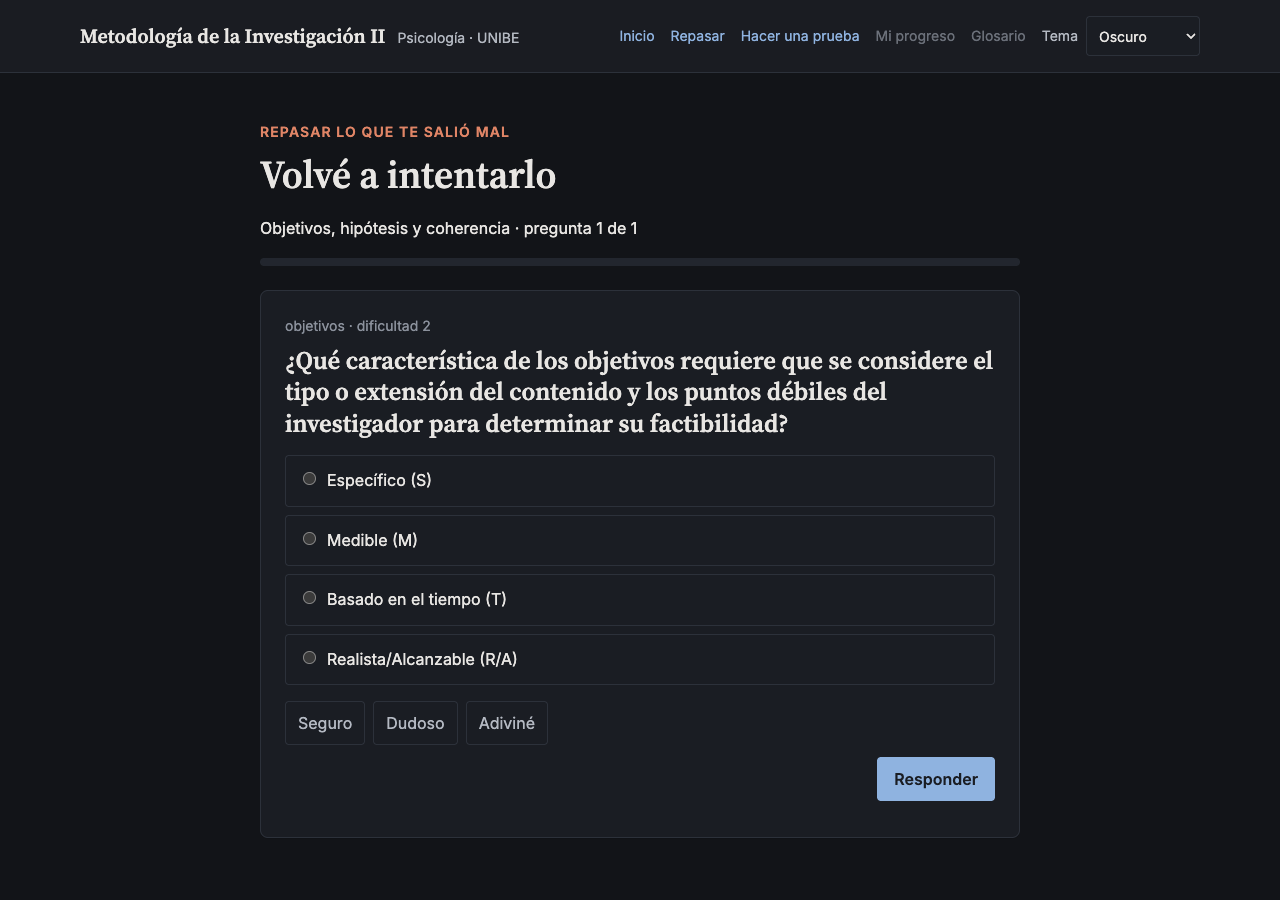
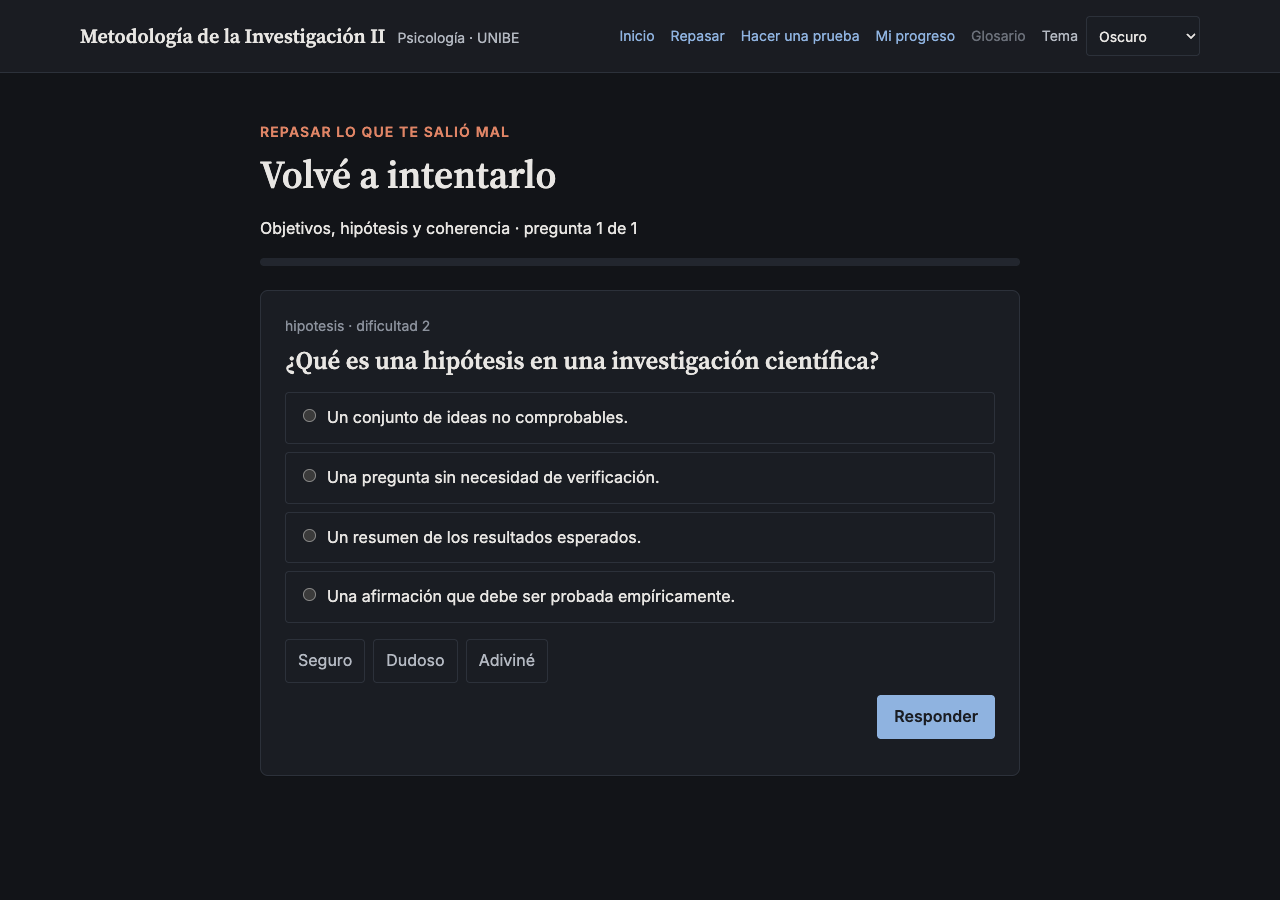
feat(ux): agregar progreso y lenguaje claro

diff --git a/assets/js/modulo-app.js b/assets/js/modulo-app.js
@@ -96,7 +96,7 @@ function renderStepHeader(eyebrow, title, description) {
 function renderUbicacion() {
   const outcomes = (state.module.resultados ?? []).map((result) => `<li>${inlineMarkdown(result)}</li>`).join("");
   const questions = (state.module.preguntas_orientadoras ?? []).map((question) => `<li>${inlineMarkdown(question)}</li>`).join("");
-  return `<section class="module-step is-active">${renderStepHeader("Paso 1 · Ubicación", "Dónde estás en el proyecto", "La cadena ordena el proyecto sin convertirlo en una secuencia rígida.")}
+  return `<section class="module-step is-active">${renderStepHeader("Paso 1 · Ubicá tu proyecto", "Dónde estás en el proyecto", "La cadena ordena el proyecto sin convertirlo en una secuencia rígida.")}
     <div class="card stack"><div>${renderCoherenceChain()}</div><div><h3>Resultados de aprendizaje</h3><ul>${outcomes || "<li>Los resultados se cargarán con el contenido validado del módulo.</li>"}</ul></div>${questions ? `<div><h3>Preguntas orientadoras</h3><ul>${questions}</ul></div>` : ""}</div>
   </section>`;
 }
@@ -130,13 +130,13 @@ function renderCapsuleBlock(block, index) {
 
 function renderStudy() {
   const blocks = state.content.capsula?.blocks ?? [];
-  return `<section class="module-step is-active">${renderStepHeader("Paso 3 · Estudio", "Lectura, cápsula y herramientas", "Estudiá la síntesis y usá las herramientas cuando el diseño de tu estudio lo requiera.")}
+  return `<section class="module-step is-active">${renderStepHeader("Paso 3 · Estudiá", "Lectura, cápsula y herramientas", "Estudiá la síntesis y usá las herramientas cuando el diseño de tu estudio lo requiera.")}
     <div class="module-layout"><div class="capsule">${renderResources()}${blocks.map(renderCapsuleBlock).join("")}</div><aside class="module-sidebar card"><h3>Antes de seguir</h3><p class="muted">Intentá explicar el concepto con tus palabras y anotá qué supuesto todavía necesitás revisar.</p></aside></div>
   </section>`;
 }
 
 function renderConcepts() {
-  return `<section class="module-step is-active">${renderStepHeader("Paso 4 · Conceptos clave", "Recuperación activa", "Mostrá la respuesta después de intentar definir cada concepto.")}
+  return `<section class="module-step is-active">${renderStepHeader("Paso 4 · Repasá conceptos", "Recuperación activa", "Mostrá la respuesta después de intentar definir cada concepto.")}
     <div class="capsule__cards">${state.cards.map((card) => `<details class="capsule__card"><summary>${inlineMarkdown(card.frente ?? card.front ?? "Concepto")}</summary><p>${inlineMarkdown(card.dorso ?? card.back ?? "")}</p><p class="card__meta">${escapeHtml(card.tag ?? "")}</p></details>`).join("")}</div>
   </section>`;
 }
@@ -176,7 +176,7 @@ function renderDomainResult(domain) {
   const review = domain.subtemasRevisar?.length
     ? `<p><strong>Subtemas para repasar:</strong> ${domain.subtemasRevisar.map((item) => escapeHtml(item)).join(", ")}</p>`
     : "";
-  const title = domain.dominated ? "Módulo dominado" : "Todavía no alcanza el dominio";
+  const title = domain.dominated ? "Ya dominás este módulo" : "Todavía falta practicar";
   const detail = domain.dominated
     ? "Superaste el umbral del 80 %."
     : "Hacé una nueva práctica y volvé a intentar la verificación.";
@@ -191,29 +191,29 @@ function renderPractice() {
     : session.primaryServed >= session.targetCount
       ? `Sesión completa: ${session.answers.length} respuestas, con errores reaparecidos al final.`
     : `Ítem ${session.primaryServed + 1} de ${session.targetCount} · dificultad objetivo ${session.currentDifficulty}.`;
-  return `<section class="module-step is-active">${renderStepHeader("Paso 6 · Práctica adaptativa", "Practicá con feedback inmediato", "La dificultad sube después de dos aciertos seguidos, baja después de un error y los errores reaparecen al final de la sesión.")}${renderQuestionList(current, "adaptativa", progress, { withConfidence: true })}</section>`;
+  return `<section class="module-step is-active">${renderStepHeader("Paso 6 · Practicá", "Practicá con feedback inmediato", "La dificultad sube después de dos aciertos seguidos, baja después de un error y los errores reaparecen al final de la sesión.")}${renderQuestionList(current, "adaptativa", progress, { withConfidence: true })}</section>`;
 }
 
 function renderVerification() {
   const session = state.sessions.verificacion ?? (state.sessions.verificacion = createSession(state.items, { mode: "verificacion" }));
   const previous = state.store.modules?.[moduleId]?.domain;
-  return `<section class="module-step is-active">${renderStepHeader("Paso 7 · Verificación de dominio", "Comprobá tu dominio", "El módulo se considera dominado con 80 % o más en esta verificación de 10 ítems.")}${previous ? renderDomainResult(previous) : ""}${renderQuestionList(session.items, "verificacion", "3 ítems de dificultad 1, 4 de dificultad 2 y 3 de dificultad 3", { withConfidence: true })}<div class="verification-actions"><button class="button button--primary" type="button" data-verification-submit>Calificar verificación</button><div data-verification-result aria-live="polite"></div></div></section>`;
+  return `<section class="module-step is-active">${renderStepHeader("Paso 7 · Verificá lo aprendido", "Comprobá lo que aprendiste", "Si llegás a 80 % o más, este módulo queda registrado como dominado.")}${previous ? renderDomainResult(previous) : ""}${renderQuestionList(session.items, "verificacion", "3 ítems de dificultad 1, 4 de dificultad 2 y 3 de dificultad 3", { withConfidence: true })}<div class="verification-actions"><button class="button button--primary" type="button" data-verification-submit>Ver mi resultado</button><div data-verification-result aria-live="polite"></div></div></section>`;
 }
 
 function renderDiagnosis() {
   const items = approvedItems(state.items).filter((item) => Number(item.dificultad) <= 2).slice(0, 3);
-  return `<section class="module-step is-active">${renderStepHeader("Paso 2 · Diagnóstico", "Activá lo que ya sabés", "No tiene nota. Usá los errores para decidir a qué prestar atención durante el estudio.")}${renderQuestionList(items, "diagnostico", "Tres preguntas iniciales, sin puntaje")}</section>`;
+  return `<section class="module-step is-active">${renderStepHeader("Paso 2 · Qué ya sabés", "Activá lo que ya sabés", "No tiene nota. Usá los errores para decidir a qué prestar atención durante el estudio.")}${renderQuestionList(items, "diagnostico", "Tres preguntas iniciales, sin puntaje")}</section>`;
 }
 
 function renderAudit() {
   const checks = state.content.autoauditoria ?? state.module.autoauditoria ?? [];
-  if (!checks.length) return `<section class="module-step is-active">${renderStepHeader("Paso 8 · Autoauditoría", "Aplicalo a tu proyecto", "Esta versión del módulo todavía no trae una lista de cotejo específica.")}<div class="empty-note">La autoauditoría queda reservada para contenido validado por la cátedra.</div></section>`;
-  return `<section class="module-step is-active">${renderStepHeader("Paso 8 · Autoauditoría", "Aplicalo a tu proyecto", "Marcá cada criterio cuando puedas responderlo con evidencia de tu propio proyecto.")}<ul class="audit-list">${checks.map((check, index) => `<li><label><input type="checkbox" data-audit-index="${index}" ${state.store.autoauditorias?.[moduleId]?.[index] ? "checked" : ""}><span>${inlineMarkdown(check)}</span></label></li>`).join("")}</ul></section>`;
+  if (!checks.length) return `<section class="module-step is-active">${renderStepHeader("Paso 8 · Aplicalo a tu proyecto", "Aplicalo a tu proyecto", "Esta versión del módulo todavía no trae una lista de cotejo específica.")}<div class="empty-note">La autoauditoría queda reservada para contenido validado por la cátedra.</div></section>`;
+  return `<section class="module-step is-active">${renderStepHeader("Paso 8 · Aplicalo a tu proyecto", "Aplicalo a tu proyecto", "Marcá cada criterio cuando puedas responderlo con evidencia de tu propio proyecto.")}<ul class="audit-list">${checks.map((check, index) => `<li><label><input type="checkbox" data-audit-index="${index}" ${state.store.autoauditorias?.[moduleId]?.[index] ? "checked" : ""}><span>${inlineMarkdown(check)}</span></label></li>`).join("")}</ul></section>`;
 }
 
 function renderClosing() {
   const current = state.store.puntosTurbios?.find((item) => item.moduleId === moduleId)?.text ?? "";
-  return `<section class="module-step is-active">${renderStepHeader("Paso 9 · Cierre", "El punto más turbio", "Escribí una línea sobre lo que quedó menos claro. Guardalo para orientar tu próximo repaso.")}<form class="closing-form"><label for="muddy-point">¿Qué te falta distinguir?</label><textarea id="muddy-point" name="muddy-point">${escapeHtml(current)}</textarea><button class="button button--primary" type="submit">Guardar cierre</button><p class="step-status" id="closing-status" aria-live="polite"></p></form></section>`;
+  return `<section class="module-step is-active">${renderStepHeader("Paso 9 · Cerrá la sesión", "El punto más turbio", "Escribí una línea sobre lo que quedó menos claro. Guardalo para orientar tu próximo repaso.")}<form class="closing-form"><label for="muddy-point">¿Qué te falta distinguir?</label><textarea id="muddy-point" name="muddy-point">${escapeHtml(current)}</textarea><button class="button button--primary" type="submit">Guardar cierre</button><p class="step-status" id="closing-status" aria-live="polite"></p></form></section>`;
 }
 
 function renderCurrentStep() {

diff --git a/assets/js/progress-app.js b/assets/js/progress-app.js
@@ -1,0 +1,81 @@
+import { escapeHtml, MODULE_STEPS } from "./engine.js";
+import { getReviewQueue, loadStore, saveStore } from "./store.js";
+
+const contentEl = document.querySelector("#progress-content");
+const themeSelect = document.querySelector("#theme-select");
+const state = { store: loadStore(), modules: [] };
+
+function setTheme(theme) {
+  document.documentElement.dataset.theme = theme;
+  if (themeSelect) themeSelect.value = theme;
+  state.store.theme = theme;
+  saveStore(state.store);
+}
+
+function formatDate(value) {
+  if (!value) return "";
+  const date = new Date(value);
+  return Number.isNaN(date.getTime()) ? String(value) : new Intl.DateTimeFormat("es-PY", { dateStyle: "medium" }).format(date);
+}
+
+function stepLabel(stepId) {
+  return MODULE_STEPS.find((step) => step.id === stepId)?.label ?? "el módulo";
+}
+
+function moduleStatus(module, moduleState) {
+  const domain = moduleState?.domain;
+  if (domain?.dominated) {
+    return {
+      badge: "Módulo dominado",
+      className: "badge--ok",
+      detail: `Puntaje ${domain.score}% · ${formatDate(domain.fecha)}`,
+      action: `<a class="button button--quiet" href="modulo.html?m=${encodeURIComponent(module.id)}&step=verificacion">Ver resultado</a>`,
+    };
+  }
+  if (moduleState?.lastActivity?.stepId) {
+    return {
+      badge: "En progreso",
+      className: "badge--accent",
+      detail: `Quedaste en ${stepLabel(moduleState.lastActivity.stepId).toLowerCase()}${moduleState.lastActivity.updatedAt ? ` · ${formatDate(moduleState.lastActivity.updatedAt)}` : ""}`,
+      action: `<a class="button button--primary" href="modulo.html?m=${encodeURIComponent(module.id)}&step=${encodeURIComponent(moduleState.lastActivity.stepId)}">Continuar</a>`,
+    };
+  }
+  return {
+    badge: "Todavía no empezado",
+    className: "",
+    detail: "Podés empezar por la ubicación del proyecto.",
+    action: `<a class="button button--secondary" href="modulo.html?m=${encodeURIComponent(module.id)}">Empezar</a>`,
+  };
+}
+
+function render() {
+  const reviewCount = getReviewQueue(state.store).length;
+  const dominated = state.modules.filter((module) => state.store.modules?.[module.id]?.domain?.dominated).length;
+  const started = state.modules.filter((module) => state.store.modules?.[module.id]?.lastActivity).length;
+  const latest = state.modules
+    .map((module) => ({ module, activity: state.store.modules?.[module.id]?.lastActivity }))
+    .filter(({ activity }) => activity?.updatedAt)
+    .sort((a, b) => new Date(b.activity.updatedAt) - new Date(a.activity.updatedAt))[0];
+  const continueLink = latest
+    ? `modulo.html?m=${encodeURIComponent(latest.module.id)}&step=${encodeURIComponent(latest.activity.stepId)}`
+    : "modulo.html?m=m01";
+  const modules = state.modules.map((module) => {
+    const status = moduleStatus(module, state.store.modules?.[module.id]);
+    const domain = state.store.modules?.[module.id]?.domain;
+    const review = domain?.subtemasRevisar?.length ? `<p class="progress-card__review"><strong>Para repasar:</strong> ${domain.subtemasRevisar.map((item) => escapeHtml(item)).join(", ")}</p>` : "";
+    return `<article class="progress-card" data-progress-module="${escapeHtml(module.id)}"><div class="progress-card__top"><span class="badge">Módulo ${escapeHtml(module.number)}</span><span class="badge ${status.className}">${status.badge}</span></div><h2>${escapeHtml(module.title)}</h2><p class="muted">${escapeHtml(status.detail)}</p>${review}<div class="progress-card__action">${status.action}</div></article>`;
+  }).join("");
+  contentEl.innerHTML = `<section class="progress-page"><div class="progress-page__header"><p class="eyebrow">Mi progreso</p><h1>Sabé qué hiciste y qué sigue</h1><p>Este resumen se guarda en este dispositivo. No necesitás crear una cuenta.</p></div><div class="progress-summary"><article class="card"><span class="card__meta">Módulos dominados</span><strong>${dominated} de ${state.modules.length}</strong></article><article class="card"><span class="card__meta">Módulos empezados</span><strong>${started} de ${state.modules.length}</strong></article><article class="card"><span class="card__meta">Para repasar hoy</span><strong>${reviewCount}</strong></article></div><section class="progress-next card card--accent"><div><p class="eyebrow">Siguiente paso</p><h2>Seguí desde donde quedaste</h2><p class="muted">${latest ? `Módulo ${escapeHtml(latest.module.number)} · ${escapeHtml(stepLabel(latest.activity.stepId).toLowerCase())}` : "Todavía no registramos una actividad."}</p></div><div class="cluster"><a class="button button--primary" href="${continueLink}">Continuar</a>${reviewCount ? `<a class="button button--secondary" id="progress-review-link" href="repaso.html">Repasar ${reviewCount} ítems</a>` : ""}</div></section><section aria-labelledby="progress-modules-heading"><div class="progress-section-heading"><div><p class="eyebrow">Tus módulos</p><h2 id="progress-modules-heading">Un paso a la vez</h2></div><a class="button button--quiet" href="index.html">Volver al inicio</a></div><div class="progress-grid">${modules}</div></section><p class="progress-note">Si cambiás de navegador o dispositivo, este avance no se traslada automáticamente. Podés volver a este equipo para continuar.</p></section>`;
+}
+
+async function load() {
+  setTheme(state.store.theme ?? "auto");
+  themeSelect?.addEventListener("change", () => setTheme(themeSelect.value));
+  const response = await fetch("data/modulos.json");
+  state.modules = await response.json();
+  render();
+}
+
+load().catch((error) => {
+  contentEl.innerHTML = `<div class="empty-note">No se pudo cargar tu progreso: ${escapeHtml(error.message)}</div>`;
+});

diff --git a/index.html b/index.html
@@ -69,16 +69,17 @@
               <svg width="18" height="18" viewBox="0 0 24 24" fill="none" stroke="currentColor" stroke-width="1.8" stroke-linecap="round" stroke-linejoin="round" aria-hidden="true"><path d="M3 12a9 9 0 1 0 3-6.7L3 8"/><path d="M3 3v5h5"/><path d="M12 7v5l3 2"/></svg>
               Repaso de hoy · <span class="n" id="hero-review-count">0 ítems</span>
             </a>
+            <a class="btn btn-ghost" href="progreso.html">Ver mi progreso</a>
           </div>
         </div>
 
         <aside class="week" aria-label="Esta semana" id="hero-week-card">
           <h3>Esta semana</h3>
-          <p class="when" id="hero-week-when">Clase 11 · <span>miércoles 14/10</span></p>
+          <p class="when" id="hero-week-when">Ruta de estudio · <span>cuando vuelvas</span></p>
           <ul id="hero-week-list">
-            <li><svg width="18" height="18" viewBox="0 0 24 24" fill="none" stroke="currentColor" stroke-width="1.8" stroke-linecap="round" stroke-linejoin="round" aria-hidden="true"><path d="M4 19.5A2.5 2.5 0 0 1 6.5 17H20V3H6.5A2.5 2.5 0 0 0 4 5.5z"/></svg><span><b>Antes:</b> lectura de técnicas, instrumentos y ética, y la matriz objetivo–dato–fuente.</span></li>
-            <li><svg width="18" height="18" viewBox="0 0 24 24" fill="none" stroke="currentColor" stroke-width="1.8" stroke-linecap="round" stroke-linejoin="round" aria-hidden="true"><path d="M9 11l3 3 8-8"/><path d="M20 12v7a2 2 0 0 1-2 2H6a2 2 0 0 1-2-2V5a2 2 0 0 1 2-2h11"/></svg><span><b>Después:</b> verificación de dominio del módulo 9.</span></li>
-            <li><svg width="18" height="18" viewBox="0 0 24 24" fill="none" stroke="currentColor" stroke-width="1.8" stroke-linecap="round" stroke-linejoin="round" aria-hidden="true"><path d="M14 2H6a2 2 0 0 0-2 2v16a2 2 0 0 0 2 2h12a2 2 0 0 0 2-2V8z"/><path d="M14 2v6h6"/></svg><span><b>Entrega en Moodle:</b> matriz e instrumento bosquejado, hasta el martes 20/10, 23:59.</span></li>
+            <li><svg width="18" height="18" viewBox="0 0 24 24" fill="none" stroke="currentColor" stroke-width="1.8" stroke-linecap="round" stroke-linejoin="round" aria-hidden="true"><path d="M4 19.5A2.5 2.5 0 0 1 6.5 17H20V3H6.5A2.5 2.5 0 0 0 4 5.5z"/></svg><span><b>Antes:</b> elegí un módulo y revisá su cápsula de estudio.</span></li>
+            <li><svg width="18" height="18" viewBox="0 0 24 24" fill="none" stroke="currentColor" stroke-width="1.8" stroke-linecap="round" stroke-linejoin="round" aria-hidden="true"><path d="M9 11l3 3 8-8"/><path d="M20 12v7a2 2 0 0 1-2 2H6a2 2 0 0 1-2-2V5a2 2 0 0 1 2-2h11"/></svg><span><b>Después:</b> respondé unas preguntas y mirá qué conviene repasar.</span></li>
+            <li><svg width="18" height="18" viewBox="0 0 24 24" fill="none" stroke="currentColor" stroke-width="1.8" stroke-linecap="round" stroke-linejoin="round" aria-hidden="true"><path d="M14 2H6a2 2 0 0 0-2 2v16a2 2 0 0 0 2 2h12a2 2 0 0 0 2-2V8z"/><path d="M14 2v6h6"/></svg><span><b>Entrega:</b> consultá en Moodle las fechas que indique la cátedra.</span></li>
           </ul>
         </aside>
       </div>
@@ -117,7 +118,7 @@
         <div class="dashboard-top">
           <div class="dashboard-title-group">
             <h2 id="dashboard-heading">Tu Panel de Avance Metodológico</h2>
-            <p id="dashboard-subtitle">Aprueba cada autoevaluación con 70% o más para desbloquear el siguiente módulo, o activa el Modo Repaso Libre para explorar sin restricciones.</p>
+            <p id="dashboard-subtitle">Superá cada verificación con 80% o más para registrar el módulo como dominado, o activá el Modo Repaso Libre para explorar sin restricciones.</p>
           </div>
           <div class="dashboard-actions">
             <button type="button" id="unlock-all-btn" class="btn btn-outline" title="Alternar acceso libre a todos los módulos">
@@ -138,7 +139,7 @@
           <div class="stat-card">
             <span class="stat-label">Promedio en Autoevaluación</span>
             <span class="stat-value" id="stat-avg-score">—</span>
-            <span class="stat-meta">Umbral de aprobación: 70%</span>
+            <span class="stat-meta">Umbral de dominio: 80%</span>
           </div>
           <div class="stat-card">
             <span class="stat-label">Tarjetas 3D Exploradas</span>

diff --git a/assets/js/app.js b/assets/js/app.js
@@ -11,7 +11,7 @@ import { createDefaultStore, getReviewQueue, loadStore, saveStore } from "./stor
 
   const TOTAL_MODULES = 11;
   const TOTAL_FLIPCARDS_COURSE = 115;
-  const PASS_THRESHOLD = 70;
+  const PASS_THRESHOLD = 80;
 
   const STAGE_MAP = {
     m01: { stage: 1, name: 'Etapa 1 · Fundamentos y Literatura' },
@@ -234,7 +234,8 @@ import { createDefaultStore, getReviewQueue, loadStore, saveStore } from "./stor
       const EXAMEN_EVENT = {
         tipo: 'examen',
         nombre: 'Examen parcial',
-        fecha: '2026-10-13',
+        // La fecha del examen queda abierta hasta la decisión docente; no mostrar una fecha vencida.
+        fecha: null,
         modulos: ['m01', 'm02', 'm03', 'm04', 'm05', 'm06', 'm07', 'm08'],
         duracion_min: 60
       };
@@ -245,10 +246,10 @@ import { createDefaultStore, getReviewQueue, loadStore, saveStore } from "./stor
       const d = String(now.getDate()).padStart(2, '0');
       const todayStr = y + '-' + m + '-' + d;
 
-      const examDate = new Date(EXAMEN_EVENT.fecha + 'T00:00:00');
+      const examDate = EXAMEN_EVENT.fecha ? new Date(EXAMEN_EVENT.fecha + 'T00:00:00') : null;
       const nowDateOnly = new Date(todayStr + 'T00:00:00');
-      const diffDays = Math.round((examDate.getTime() - nowDateOnly.getTime()) / (1000 * 60 * 60 * 24));
-      const examActive = diffDays >= 0 && diffDays <= 7;
+      const diffDays = examDate ? Math.round((examDate.getTime() - nowDateOnly.getTime()) / (1000 * 60 * 60 * 24)) : null;
+      const examActive = Number.isFinite(diffDays) && diffDays >= 0 && diffDays <= 7;
 
       const continueBtn = document.getElementById('hero-continue-btn');
       const continueNum = document.getElementById('hero-continue-num');
@@ -1536,8 +1537,8 @@ import { createDefaultStore, getReviewQueue, loadStore, saveStore } from "./stor
             '</h3>' +
             '<p style="margin-top:0.4rem;">' +
               (passed
-                ? 'Has superado el umbral del 70%. Este módulo ha quedado registrado como aprobado y el siguiente módulo se encuentra desbloqueado.'
-                : 'Se requiere al menos 70% para aprobar el módulo. Revisa la retroalimentación formativa detallada en cada ítem arriba y vuelve a intentarlo.') +
+                ? 'Has superado el umbral del 80%. Este módulo ha quedado registrado como aprobado y el siguiente módulo se encuentra desbloqueado.'
+                : 'Se requiere al menos 80% para aprobar el módulo. Revisa la retroalimentación formativa detallada en cada ítem arriba y vuelve a intentarlo.') +
             '</p>' +
             '<div style="margin-top:1rem; display:flex; gap:0.75rem; flex-wrap:wrap;">' +
               '<button type="button" id="banner-retry-btn" class="btn btn-outline">🔀 Intentar con nuevas preguntas</button>' +

diff --git a/progreso.html b/progreso.html
@@ -1,0 +1,56 @@
+<!doctype html>
+<html lang="es" data-theme="light">
+<head>
+  <meta charset="utf-8">
+  <meta name="viewport" content="width=device-width, initial-scale=1">
+  <meta name="color-scheme" content="light dark">
+  <script>
+    (function () {
+      try {
+        var stored = localStorage.getItem("meto2.v2");
+        var saved = stored ? JSON.parse(stored).theme : null;
+        var prefersDark = window.matchMedia && window.matchMedia("(prefers-color-scheme: dark)").matches;
+        document.documentElement.dataset.theme = saved && saved !== "auto" ? saved : (prefersDark ? "dark" : "light");
+      } catch (error) {}
+    }());
+  </script>
+  <title>Mi progreso — Metodología de la Investigación II</title>
+  <link rel="preconnect" href="https://fonts.googleapis.com">
+  <link rel="preconnect" href="https://fonts.gstatic.com" crossorigin>
+  <link href="https://fonts.googleapis.com/css2?family=Inter:wght@400;500;600&family=Source+Serif+4:opsz,wght@8..60,500;8..60,600&display=swap" rel="stylesheet">
+  <link rel="stylesheet" href="assets/css/base.css">
+  <link rel="stylesheet" href="assets/css/components.css">
+  <link rel="stylesheet" href="assets/css/module-v3.css">
+</head>
+<body class="module-v3">
+  <a class="skip-link" href="#progress-content">Ir al contenido</a>
+  <div class="site-shell">
+    <header class="site-header">
+      <div class="container site-header__inner">
+        <a class="brand" href="index.html" aria-label="Volver al inicio">
+          <span class="brand__title">Metodología de la Investigación II</span>
+          <span class="brand__meta">Psicología · UNIBE</span>
+        </a>
+        <nav class="site-nav" aria-label="Navegación principal">
+          <a href="index.html">Inicio</a>
+          <a href="repaso.html">Repasar</a>
+          <a href="examen.html">Hacer una prueba</a>
+          <a href="progreso.html" aria-current="page">Mi progreso</a>
+          <a class="is-reserved" href="#" aria-disabled="true">Glosario</a>
+          <label class="theme-control" for="theme-select">Tema
+            <select id="theme-select" aria-label="Tema de color">
+              <option value="light">Claro</option>
+              <option value="dark">Oscuro</option>
+              <option value="auto">Automático</option>
+            </select>
+          </label>
+        </nav>
+      </div>
+    </header>
+    <main id="progress-content" class="container progress-main">
+      <div class="step-status" role="status" aria-live="polite">Cargando tu progreso…</div>
+    </main>
+  </div>
+  <script type="module" src="assets/js/progress-app.js"></script>
+</body>
+</html>

diff --git a/assets/css/module-v3.css b/assets/css/module-v3.css
@@ -68,6 +68,23 @@
 .review-page__header p:last-child { margin-bottom: 0; }
 .review-progress { height: 8px; overflow: hidden; margin-top: var(--s-4); border-radius: 999px; background: var(--surface-2); }
 .review-progress span { display: block; width: var(--progress, 0%); height: 100%; background: var(--accent); transition: width var(--dur) ease; }
+.progress-main { max-width: 1120px; }
+.progress-page__header { max-width: 72ch; margin-bottom: var(--s-5); }
+.progress-page__header p:last-child { margin-bottom: 0; }
+.progress-summary { display: grid; grid-template-columns: repeat(3, 1fr); gap: var(--s-3); margin-bottom: var(--s-5); }
+.progress-summary strong { display: block; margin-top: var(--s-2); font-family: var(--font-serif); font-size: var(--fs-5); }
+.progress-next { display: flex; align-items: center; justify-content: space-between; gap: var(--s-5); margin-bottom: var(--s-7); }
+.progress-next h2 { margin-bottom: var(--s-2); }
+.progress-next p:last-child { margin-bottom: 0; }
+.progress-section-heading { display: flex; align-items: end; justify-content: space-between; gap: var(--s-4); margin-bottom: var(--s-4); }
+.progress-section-heading h2 { margin-bottom: 0; }
+.progress-grid { display: grid; grid-template-columns: repeat(2, minmax(0, 1fr)); gap: var(--s-4); }
+.progress-card { display: flex; min-width: 0; flex-direction: column; padding: var(--s-4); border: 1px solid var(--line); border-radius: var(--radius); background: var(--surface); box-shadow: var(--shadow); }
+.progress-card__top { display: flex; flex-wrap: wrap; gap: var(--s-2); margin-bottom: var(--s-3); }
+.progress-card h2 { margin-bottom: var(--s-2); font-size: var(--fs-3); }
+.progress-card__review { margin-top: var(--s-3); padding: var(--s-3); border-left: 3px solid var(--warn); background: var(--warn-soft); font-size: var(--fs-1); }
+.progress-card__action { display: flex; justify-content: flex-end; margin-top: auto; padding-top: var(--s-4); }
+.progress-note { margin-top: var(--s-5); color: var(--ink-3); font-size: var(--fs-1); }
 
 .case { padding: var(--s-4); border: 1px solid var(--line); border-radius: var(--radius); background: var(--surface); }
 .case summary, .gallery-card summary { cursor: pointer; font-weight: 600; }
@@ -87,4 +104,6 @@
   .module-sidebar { position: static; }
   .module-v3__main { padding-top: var(--s-4); }
   .question { padding: var(--s-4); }
+  .progress-summary, .progress-grid { grid-template-columns: 1fr; }
+  .progress-next, .progress-section-heading { align-items: flex-start; flex-direction: column; }
 }

diff --git a/assets/js/engine.js b/assets/js/engine.js
@@ -11,15 +11,15 @@ export const COHERENCE_CHAIN = [
 ];
 
 export const MODULE_STEPS = [
-  { id: "ubicacion", label: "Ubicación" },
-  { id: "diagnostico", label: "Diagnóstico" },
-  { id: "estudio", label: "Estudio" },
-  { id: "conceptos", label: "Conceptos" },
+  { id: "ubicacion", label: "Ubicá tu proyecto" },
+  { id: "diagnostico", label: "Qué ya sabés" },
+  { id: "estudio", label: "Estudiá" },
+  { id: "conceptos", label: "Repasá conceptos" },
   { id: "guiada", label: "Práctica guiada" },
-  { id: "adaptativa", label: "Práctica adaptativa" },
-  { id: "verificacion", label: "Dominio" },
-  { id: "auditoria", label: "Autoauditoría" },
-  { id: "cierre", label: "Cierre" },
+  { id: "adaptativa", label: "Practicá" },
+  { id: "verificacion", label: "Verificá lo aprendido" },
+  { id: "auditoria", label: "Aplicalo a tu proyecto" },
+  { id: "cierre", label: "Cerrá la sesión" },
 ];
 
 export function escapeHtml(value) {

diff --git a/examen.html b/examen.html
@@ -72,7 +72,7 @@
       <div class="exam-chips-grid">
         <span class="exam-chip accent">
           <svg width="15" height="15" viewBox="0 0 24 24" fill="none" stroke="currentColor" stroke-width="2" stroke-linecap="round" stroke-linejoin="round" aria-hidden="true"><rect x="3" y="4" width="18" height="18" rx="2" ry="2"></rect><line x1="16" y1="2" x2="16" y2="6"></line><line x1="8" y1="2" x2="8" y2="6"></line><line x1="3" y1="10" x2="21" y2="10"></line></svg>
-          <b>Fecha:</b> Hoy, 13 de octubre
+          <b>Fecha:</b> Según el cronograma de la cátedra
         </span>
         <span class="exam-chip">
           <svg width="15" height="15" viewBox="0 0 24 24" fill="none" stroke="currentColor" stroke-width="2" stroke-linecap="round" stroke-linejoin="round" aria-hidden="true"><circle cx="12" cy="12" r="10"></circle><polyline points="12 6 12 12 16 14"></polyline></svg>

diff --git a/modules/view.html b/modules/view.html
@@ -198,7 +198,7 @@
         <div>
           <span class="section-eyebrow">Paso 5 · Verificación de Dominio</span>
           <h2 id="heading-quiz">Autoevaluación Formativa con Retroalimentación</h2>
-          <p class="section-subtitle">Responde las preguntas seleccionadas al azar del banco validado. Obtén al menos 70% de aciertos para aprobar el módulo y desbloquear el siguiente.</p>
+          <p class="section-subtitle">Responde las preguntas seleccionadas al azar del banco validado. Obtené al menos 80% de aciertos para registrar el módulo como dominado.</p>
         </div>
       </div>
 

diff --git a/repaso.html b/repaso.html
@@ -35,7 +35,7 @@
           <a href="index.html">Inicio</a>
           <a href="repaso.html" aria-current="page">Repasar</a>
           <a href="examen.html">Hacer una prueba</a>
-          <a class="is-reserved" href="#" aria-disabled="true">Mi progreso</a>
+          <a href="progreso.html">Mi progreso</a>
           <a class="is-reserved" href="#" aria-disabled="true">Glosario</a>
           <label class="theme-control" for="theme-select">Tema
             <select id="theme-select" aria-label="Tema de color">

diff --git a/modulo.html b/modulo.html
@@ -25,7 +25,7 @@
           <a href="index.html">Inicio</a>
           <a href="repaso.html">Repasar</a>
           <a href="examen.html">Hacer una prueba</a>
-          <a class="is-reserved" href="#" aria-disabled="true">Progreso</a>
+          <a href="progreso.html">Mi progreso</a>
           <a class="is-reserved" href="#" aria-disabled="true">Glosario</a>
           <label class="theme-control" for="theme-select">Tema
             <select id="theme-select" aria-label="Tema de color">

diff --git a/ESTADO.md b/ESTADO.md
@@ -22,6 +22,9 @@
 - Se incorporaron el plan de UX/banco y el inventario de materiales en `docs/PLAN-UX-Y-BANCO-AUTOMATICO.md` y `docs/INVENTARIO-MATERIALES-Y-BRECHAS.md`. La prioridad visible para estudiantes queda expresada con verbos cotidianos: **Seguir**, **Repasar**, **Practicar** y **Ver la explicación**.
 - La continuidad ahora usa `lastActivity` dentro del almacén único `meto2.v2`. La portada ofrece el módulo y paso donde se dejó; `modulo.html?m=mNN&step=...` restaura explícitamente el paso. No se promete sincronización entre dispositivos ni se agrega login.
 - Se agregó `repaso.html` y `assets/js/review-app.js`: la cola muestra errores o respuestas con seguridad insuficiente, registra el resultado y programa intervalos de 1, 3, 7, 14 y 30 días. Solo una respuesta correcta y segura avanza de caja; un error o una respuesta dudosa vuelve a la cola el mismo día. El módulo no considera los borradores de ítems.
+- Se agregó `progreso.html` y `assets/js/progress-app.js`: muestra módulos dominados con puntaje/fecha, módulos en curso, siguiente paso, subtemas pendientes y cantidad de repaso. La navegación ya no deja “Progreso” como enlace falso.
+- Se armonizó la interfaz v3 y la portada heredada al umbral operativo del 80 % y se reemplazaron etiquetas técnicas del ciclo por acciones más directas: “Qué ya sabés”, “Practicá”, “Verificá lo aprendido” y “Aplicalo a tu proyecto”.
+- Se quitaron de la experiencia visible las fechas vencidas del parcial y de entregas. Mientras la fecha oficial siga abierta, la portada y el examen indican consultar el cronograma docente en lugar de inventar una fecha; los documentos históricos y `data/examen.json` se conservaron sin reescritura.
 - Se agregó `scripts/validate_draft_items.py`, que valida estructura, IDs, metadatos, referencias declaradas y distribución de posiciones correctas sin cambiar estados.
 - Se agregaron modelos explícitos para m02 y m03 en `data/item_models/` y se generaron 16 nuevos candidatos en `data/borradores/m02.json` y `data/borradores/m03.json`. Los 96 borradores de m02, m03 y m08–m11 conservan `origen: "borrador_ia"` y `estado: "revisar"`; ninguno se publica ni se incorpora al banco aprobado.
 - Las referencias a materiales externos al repositorio se conservan como trazabilidad declarada; no se afirma que esos archivos estén empaquetados en GitHub Pages. Los faltantes de canon y la revisión docente siguen abiertos.
